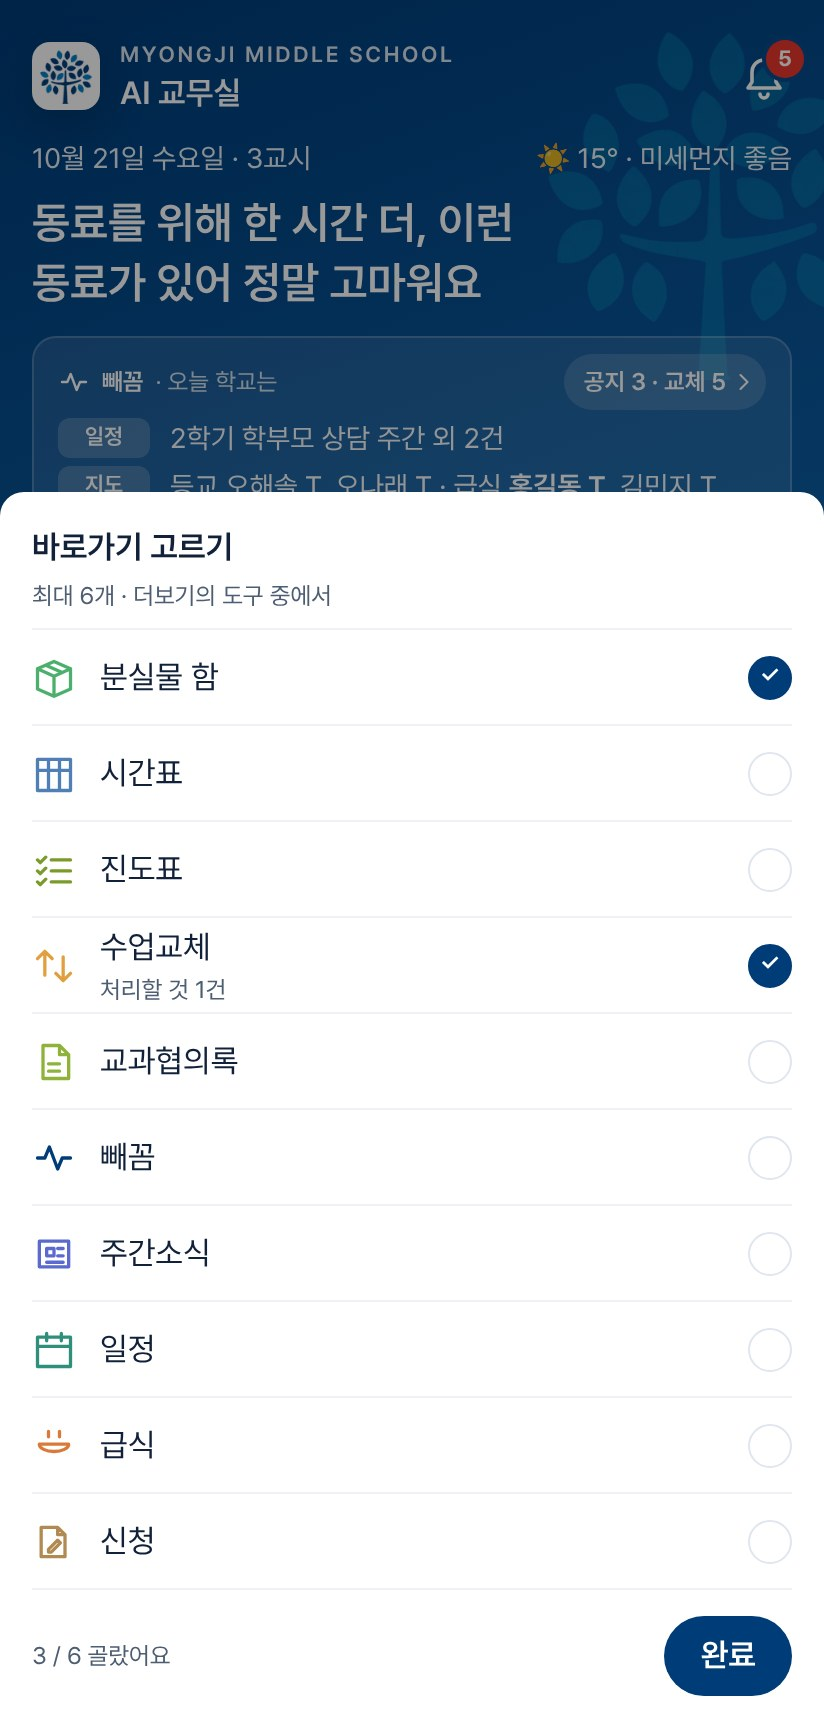
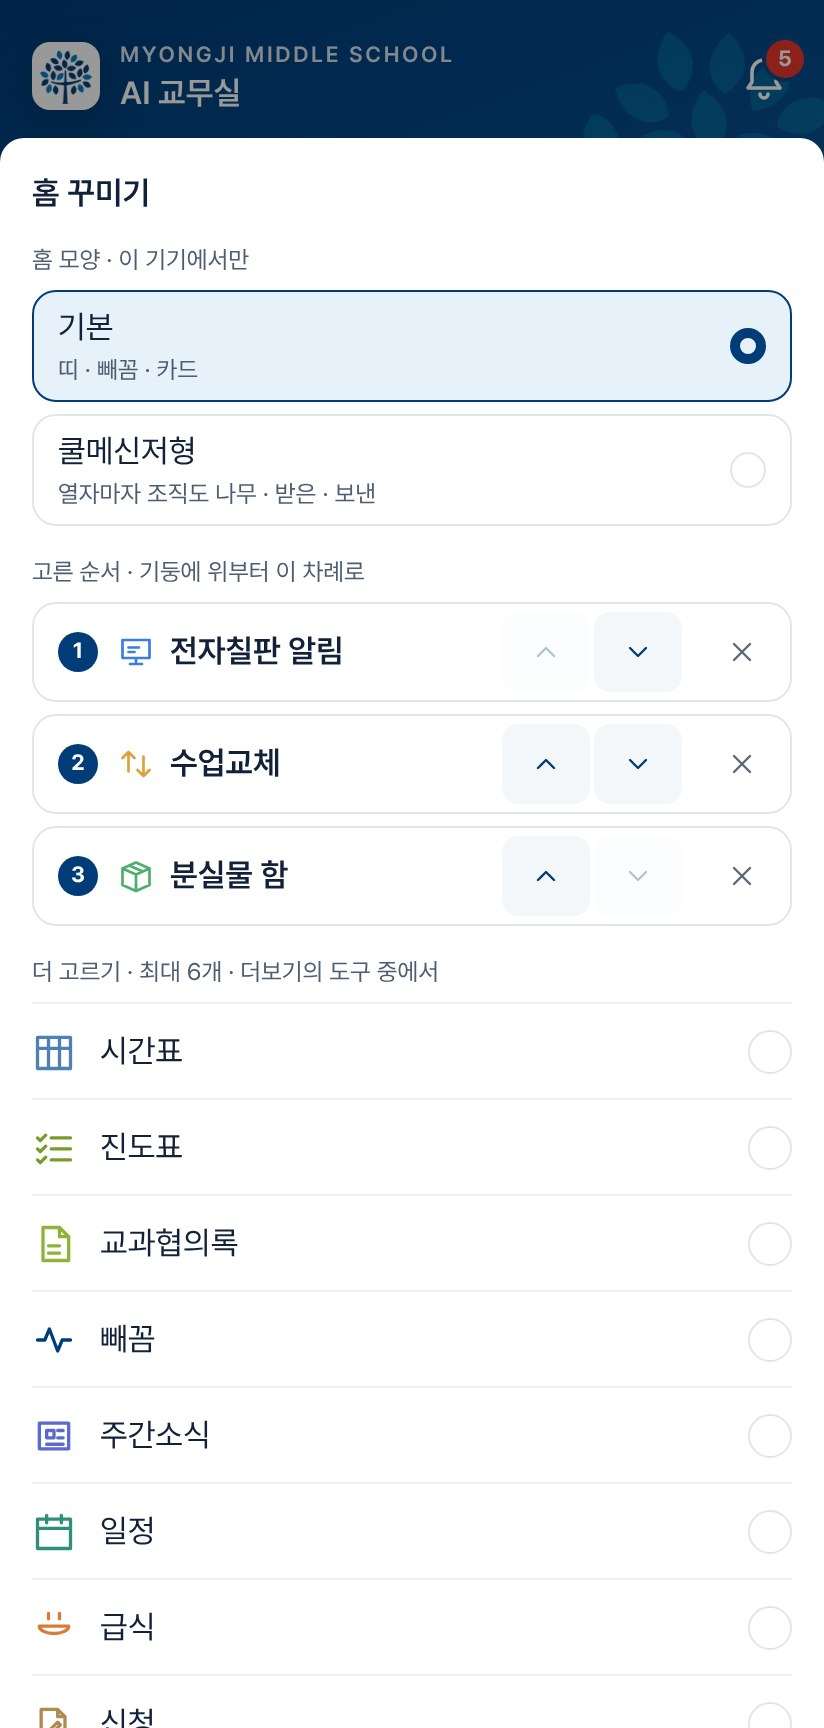
홈 꾸미기(10/31): 톱니 시트 새 그림, 순서 ▲▼·쿨메신저형 한 줄
Claude-Session: https://claude.ai/code/session_01PnRkvZMXyWQ3PDuECRmpn5

diff --git a/img/rects.js b/img/rects.js
@@ -1,3 +1,3 @@
 /* 화면마다 동그라미 칠 자리(412×864 기준, 찍을 때 잰 값) — R(화면, 키) */
-window.SHOT_RECTS = {"ai-deep": {"answer": [16, 202, 323, 464], "feedback": [20, 672, 41, 36], "question": [73, 68, 323, 124]}, "ai-form": {"answer": [16, 124, 323, 308], "feedback": [20, 438, 41, 36], "links": [267, 372, 37, 19], "question": [147, 68, 249, 46]}, "ai-home": {"chip_first": [16, 202, 380, 46], "chips": [16, 201, 380, 236], "clear": [333, 12, 71, 44], "greet": [16, 100, 380, 30], "head": [16, 16, 74, 36], "hello": [16, 134, 380, 39], "input": [72, 658, 268, 48], "mic": [348, 658, 48, 48], "notice": [16, 718, 380, 33], "plus": [16, 658, 48, 48], "tab_ai": [166, 792, 81, 44]}, "ai-lesson-2": {"body": [31, 48, 350, 482], "button": [31, 560, 111, 40]}, "ai-letter": {"body": [31, 620, 350, 274], "card": [16, 286, 380, 671], "head": [17, 287, 378, 41], "question": [73, 68, 323, 72]}, "ai-library": {"answer": [16, 124, 323, 438], "feedback": [20, 568, 41, 36], "links": [65, 450, 37, 19], "question": [133, 68, 263, 46]}, "ai-lost": {"button": [31, 586, 84, 40], "card": [16, 312, 380, 327], "photo": [31, 366, 96, 96], "question": [73, 68, 323, 124]}, "ai-nep": {"button": [31, 726, 84, 40], "card": [16, 286, 380, 493], "edit": [127, 738, 89, 16], "people": [31, 589, 350, 84], "question": [73, 68, 323, 72]}, "ai-number": {"button": [31, 449, 96, 40], "card": [16, 260, 380, 242], "question": [81, 68, 315, 46]}, "ai-plus": {"attach": [22, 523, 284, 60], "close": [16, 658, 48, 48], "deep": [22, 584, 284, 60], "menu": [16, 517, 296, 133]}, "ai-progress": {"button": [31, 504, 108, 40], "card": [16, 286, 380, 271], "question": [73, 68, 323, 72]}, "ai-repair": {"button": [31, 576, 96, 40], "card": [16, 260, 380, 369], "head": [17, 261, 378, 41], "question": [73, 68, 323, 72]}, "ai-sign": {"button": [31, 705, 175, 40], "card": [16, 286, 380, 472], "people": [31, 544, 350, 151], "question": [73, 68, 323, 72]}, "ai-swap": {"calendar": [31, 364, 75, 14], "card": [16, 312, 380, 703], "question": [73, 68, 323, 72]}, "alerts": {}, "board-alert-confirm": {"cancel": [16, 804, 136, 44], "go": [160, 804, 236, 44], "sheet": [0, 0, 412, 864], "text": [16, 720, 380, 72], "where": [16, 668, 380, 40]}, "board-pick": {"all": [16, 535, 380, 44], "done": [16, 798, 380, 50], "grid": [16, 591, 380, 94], "legend": [16, 697, 380, 32], "off": [170, 641, 71, 44], "tabs": [16, 481, 380, 42]}, "board-send": {"body": [37, 239, 338, 110], "kinds": [31, 134, 350, 50], "mine": [272, 455, 109, 40], "options": [37, 362, 338, 38], "submit": [31, 572, 350, 50], "what": [31, 204, 350, 21], "where": [31, 426, 350, 115]}, "board-voice-rec": {"status": [45, 290, 322, 92], "stop": [285, 342, 82, 40]}, "calendar": {"today": [196, 394, 20, 20]}, "forms": {"trip": [17, 110, 378, 56]}, "found": {"head": [16, 24, 380, 71]}, "home": {"bell": [360, 16, 44, 44], "changed": [276, 526, 45, 71], "gear": [356, 729, 52, 44], "hero": [16, 96, 380, 61], "hint": [16, 322, 380, 44], "nep": [16, 398, 320, 54], "now": [129, 526, 45, 71], "peek": [16, 168, 380, 96], "pg": [245, 465, 40, 44], "pill": [282, 177, 101, 28], "rail": [352, 382, 60, 404], "sc": [356, 386, 52, 62], "scAll": [356, 514, 52, 62], "tabAi": [166, 792, 81, 44], "tabMore": [327, 792, 81, 61], "tabNep": [85, 792, 81, 61], "tileLesson": [16, 276, 186, 38], "tileSched": [210, 276, 186, 38], "tiles": [16, 276, 380, 38], "tt": [289, 465, 40, 44]}, "home-3": {"cal": [289, 430, 40, 44], "gear": [356, 729, 52, 44], "meal": [31, 291, 24, 20], "rail": [352, 0, 60, 786], "upcoming": [31, 442, 76, 20], "weekly": [245, 430, 40, 44]}, "home-sheet": {"count": [16, 819, 69, 18], "done": [332, 808, 64, 40], "head": [16, 262, 380, 24], "pick": [16, 314, 380, 484], "sheet": [0, 0, 412, 864]}, "home-sports": {"card": [16, 16, 320, 472], "link": [16, 16, 320, 472]}, "library": {"chips": [72, 214, 52, 39], "pinned": [16, 282, 380, 95], "search": [52, 169, 331, 23], "write": [310, 720, 86, 48]}, "library-post": {"download": [31, 211, 350, 44]}, "lost-date": {"head": [31, 91, 53, 28], "head2": [31, 207, 51, 28], "scene": [16, 76, 380, 680]}, "lost-found": {"add": [126, 679, 161, 54], "box": [16, 76, 380, 680], "item": [184, 368, 81, 81], "note": [16, 756, 380, 43], "returned": [286, 16, 110, 44], "student": [251, 767, 50, 13]}, "lost-found-2": {"add": [126, 643, 161, 54], "note": [16, 720, 380, 43], "student": [251, 731, 50, 13]}, "lost-found-add": {"photo": [16, 154, 380, 212], "place": [16, 558, 380, 73], "submit": [149, 863, 247, 44]}, "lost-kind": {"head": [31, 91, 58, 28], "scene": [16, 76, 380, 680]}, "nep-board": {"meter": [16, 173, 380, 76], "pending": [16, 261, 380, 21], "remind": [16, 328, 380, 44]}, "nep-inbox": {"chip": [341, 457, 51, 21], "me": [0, 128, 412, 68], "recruit": [0, 264, 412, 68], "row": [0, 196, 412, 68], "tabs": [16, 76, 380, 48], "unread": [372, 230, 20, 20]}, "nep-org-picked": {"bar": [14, 692, 384, 61], "checks": [15, 165, 382, 225], "write": [283, 702, 105, 41]}, "nep-plus": {"ack": [16, 536, 380, 56], "files": [16, 472, 380, 56], "schedule": [16, 728, 380, 56], "sheet": [0, 0, 412, 864], "submit": [16, 664, 380, 56], "task": [16, 600, 380, 56], "urgent": [16, 792, 380, 56]}, "nep-room": {"bubble": [209, 643, 191, 63], "card": [12, 276, 341, 358], "done": [27, 576, 72, 44], "due": [27, 530, 311, 36], "head": [0, 0, 412, 61], "input": [64, 709, 260, 44], "plus": [12, 709, 44, 44], "send": [332, 709, 68, 44]}, "notifications-on": {"nurse": [333, 390, 48, 28], "test": [63, 177, 318, 44]}, "nurse": {"open": [31, 139, 350, 50]}, "pg-month": {"left": [33, 354, 346, 17], "nav": [16, 205, 380, 40], "row": [16, 396, 380, 118], "streak": [299, 270, 80, 21], "summary": [16, 257, 380, 127], "toggle": [16, 139, 380, 54]}, "pg-month-2": {"legend": [16, 614, 380, 40], "off": [77, 57, 24, 32], "row": [16, 267, 380, 118], "star": [53, 64, 16, 17], "today": [77, 91, 24, 32], "todo": [53, 342, 24, 32]}, "pg-month-pick": {"head": [31, 89, 121, 21], "slot": [17, 300, 378, 29]}, "pg-today": {"card": [16, 229, 380, 142], "date": [68, 139, 216, 44], "map": [206, 80, 187, 44], "save": [309, 703, 87, 44], "segment": [16, 77, 380, 50]}, "pg-week": {"hint": [16, 605, 380, 17], "list": [16, 139, 380, 54], "nav": [16, 205, 380, 40], "toggle": [16, 139, 380, 54]}, "record": {"privacy": [16, 42, 253, 16]}, "record-options": {"generate": [31, 383, 350, 50], "length": [31, 61, 350, 21], "model": [31, 301, 350, 48]}, "record-result": {"basis": [31, 532, 350, 90], "result": [31, 330, 350, 166]}, "sign-file": {"doc": [312, 103, 56, 21], "sign": [31, 181, 252, 48]}, "sign-meeting": {"hand": [295, 141, 71, 17], "roster": [17, 234, 378, 464], "sign": [31, 126, 252, 48]}, "signature": {"default": [267, 96, 112, 21], "hand": [16, 77, 380, 302], "stamp": [16, 391, 380, 302]}, "sports": {"bracket": [16, 77, 380, 262], "match": [29, 394, 354, 129], "rounds": [98, 352, 50, 32], "score": [116, 176, 17, 14]}, "sub-calc": {"calendar": [31, 466, 350, 21], "date": [31, 316, 169, 44], "go": [31, 501, 350, 44], "periods": [31, 374, 350, 113], "reason": [212, 316, 169, 44], "tabs": [16, 77, 380, 50], "teacher": [31, 229, 350, 44]}, "sub-dates": {"byHand": [278, 520, 71, 17], "dates": [43, 117, 255, 68], "request": [31, 508, 235, 40], "tools": [31, 460, 350, 36]}, "sub-inbox": {"pending": [16, 316, 380, 21], "proxy": [31, 651, 220, 40], "register": [16, 139, 380, 44], "rooms": [16, 243, 380, 65], "tab": [268, 80, 125, 44]}, "sub-result": {"calendar": [31, 120, 350, 42], "date": [43, 317, 279, 40], "firstStep": [31, 264, 350, 23], "plan1": [31, 207, 350, 49]}, "today": {"board": [31, 90, 52, 21], "days": [178, 271, 42, 23], "mynep": [31, 926, 42, 21]}, "today-2": {"changes": [17, 302, 378, 46], "events": [31, 72, 69, 21]}, "tt-class": {"picker": [16, 135, 380, 44], "tabs": [16, 77, 380, 50]}, "tt-free": {"name": [31, 395, 60, 40], "rooms": [16, 212, 380, 123], "teachers": [16, 347, 380, 343]}, "tt-my": {"away": [191, 516, 61, 87], "band": [191, 226, 61, 87], "changed": [191, 606, 61, 68], "pending": [322, 317, 61, 68], "picker": [16, 135, 380, 44], "tabs": [16, 77, 380, 50], "today": [191, 389, 61, 68]}, "tt-pop": {"band": [191, 226, 61, 87], "pop": [29, 317, 354, 115]}};
+window.SHOT_RECTS = {"ai-deep": {"answer": [16, 202, 323, 464], "feedback": [20, 672, 41, 36], "question": [73, 68, 323, 124]}, "ai-form": {"answer": [16, 124, 323, 308], "feedback": [20, 438, 41, 36], "links": [267, 372, 37, 19], "question": [147, 68, 249, 46]}, "ai-home": {"chip_first": [16, 202, 380, 46], "chips": [16, 201, 380, 236], "clear": [333, 12, 71, 44], "greet": [16, 100, 380, 30], "head": [16, 16, 74, 36], "hello": [16, 134, 380, 39], "input": [72, 658, 268, 48], "mic": [348, 658, 48, 48], "notice": [16, 718, 380, 33], "plus": [16, 658, 48, 48], "tab_ai": [166, 792, 81, 44]}, "ai-lesson-2": {"body": [31, 48, 350, 482], "button": [31, 560, 111, 40]}, "ai-letter": {"body": [31, 620, 350, 274], "card": [16, 286, 380, 671], "head": [17, 287, 378, 41], "question": [73, 68, 323, 72]}, "ai-library": {"answer": [16, 124, 323, 438], "feedback": [20, 568, 41, 36], "links": [65, 450, 37, 19], "question": [133, 68, 263, 46]}, "ai-lost": {"button": [31, 586, 84, 40], "card": [16, 312, 380, 327], "photo": [31, 366, 96, 96], "question": [73, 68, 323, 124]}, "ai-nep": {"button": [31, 726, 84, 40], "card": [16, 286, 380, 493], "edit": [127, 738, 89, 16], "people": [31, 589, 350, 84], "question": [73, 68, 323, 72]}, "ai-number": {"button": [31, 449, 96, 40], "card": [16, 260, 380, 242], "question": [81, 68, 315, 46]}, "ai-plus": {"attach": [22, 523, 284, 60], "close": [16, 658, 48, 48], "deep": [22, 584, 284, 60], "menu": [16, 517, 296, 133]}, "ai-progress": {"button": [31, 504, 108, 40], "card": [16, 286, 380, 271], "question": [73, 68, 323, 72]}, "ai-repair": {"button": [31, 576, 96, 40], "card": [16, 260, 380, 369], "head": [17, 261, 378, 41], "question": [73, 68, 323, 72]}, "ai-sign": {"button": [31, 705, 175, 40], "card": [16, 286, 380, 472], "people": [31, 544, 350, 151], "question": [73, 68, 323, 72]}, "ai-swap": {"calendar": [31, 364, 75, 14], "card": [16, 312, 380, 703], "question": [73, 68, 323, 72]}, "alerts": {}, "board-alert-confirm": {"cancel": [16, 804, 136, 44], "go": [160, 804, 236, 44], "sheet": [0, 0, 412, 864], "text": [16, 720, 380, 72], "where": [16, 668, 380, 40]}, "board-pick": {"all": [16, 535, 380, 44], "done": [16, 798, 380, 50], "grid": [16, 591, 380, 94], "legend": [16, 697, 380, 32], "off": [170, 641, 71, 44], "tabs": [16, 481, 380, 42]}, "board-send": {"body": [37, 239, 338, 110], "kinds": [31, 134, 350, 50], "mine": [272, 455, 109, 40], "options": [37, 362, 338, 38], "submit": [31, 572, 350, 50], "what": [31, 204, 350, 21], "where": [31, 426, 350, 115]}, "board-voice-rec": {"status": [45, 290, 322, 92], "stop": [285, 342, 82, 40]}, "calendar": {"today": [196, 394, 20, 20]}, "forms": {"trip": [17, 110, 378, 56]}, "found": {"head": [16, 24, 380, 71]}, "home": {"bell": [360, 16, 44, 44], "changed": [276, 526, 45, 71], "gear": [356, 729, 52, 44], "hero": [16, 96, 380, 61], "hint": [16, 322, 380, 44], "nep": [16, 398, 320, 54], "now": [129, 526, 45, 71], "peek": [16, 168, 380, 96], "pg": [245, 465, 40, 44], "pill": [282, 177, 101, 28], "rail": [352, 382, 60, 404], "sc": [356, 386, 52, 62], "scAll": [356, 514, 52, 62], "tabAi": [166, 792, 81, 44], "tabMore": [327, 792, 81, 61], "tabNep": [85, 792, 81, 61], "tileLesson": [16, 276, 186, 38], "tileSched": [210, 276, 186, 38], "tiles": [16, 276, 380, 38], "tt": [289, 465, 40, 44]}, "home-3": {"cal": [289, 430, 40, 44], "gear": [356, 729, 52, 44], "meal": [31, 291, 24, 20], "rail": [352, 0, 60, 786], "upcoming": [31, 442, 76, 20], "weekly": [245, 430, 40, 44]}, "home-sheet": {"count": [16, 1006, 69, 18], "done": [332, 995, 64, 40], "head": [16, 85, 380, 24], "look": [16, 145, 380, 118], "order": [16, 301, 380, 162], "pick": [16, 501, 380, 484], "sheet": [0, 0, 412, 864]}, "home-sports": {"card": [16, 16, 320, 472], "link": [16, 16, 320, 472]}, "library": {"chips": [72, 214, 52, 39], "pinned": [16, 282, 380, 95], "search": [52, 169, 331, 23], "write": [310, 720, 86, 48]}, "library-post": {"download": [31, 211, 350, 44]}, "lost-date": {"head": [31, 91, 53, 28], "head2": [31, 207, 51, 28], "scene": [16, 76, 380, 680]}, "lost-found": {"add": [126, 679, 161, 54], "box": [16, 76, 380, 680], "item": [184, 368, 81, 81], "note": [16, 756, 380, 43], "returned": [286, 16, 110, 44], "student": [251, 767, 50, 13]}, "lost-found-2": {"add": [126, 643, 161, 54], "note": [16, 720, 380, 43], "student": [251, 731, 50, 13]}, "lost-found-add": {"photo": [16, 154, 380, 212], "place": [16, 558, 380, 73], "submit": [149, 863, 247, 44]}, "lost-kind": {"head": [31, 91, 58, 28], "scene": [16, 76, 380, 680]}, "nep-board": {"meter": [16, 173, 380, 76], "pending": [16, 261, 380, 21], "remind": [16, 328, 380, 44]}, "nep-inbox": {"chip": [341, 457, 51, 21], "me": [0, 128, 412, 68], "recruit": [0, 264, 412, 68], "row": [0, 196, 412, 68], "tabs": [16, 76, 380, 48], "unread": [372, 230, 20, 20]}, "nep-org-picked": {"bar": [14, 692, 384, 61], "checks": [15, 165, 382, 225], "write": [283, 702, 105, 41]}, "nep-plus": {"ack": [16, 536, 380, 56], "files": [16, 472, 380, 56], "schedule": [16, 728, 380, 56], "sheet": [0, 0, 412, 864], "submit": [16, 664, 380, 56], "task": [16, 600, 380, 56], "urgent": [16, 792, 380, 56]}, "nep-room": {"bubble": [209, 643, 191, 63], "card": [12, 276, 341, 358], "done": [27, 576, 72, 44], "due": [27, 530, 311, 36], "head": [0, 0, 412, 61], "input": [64, 709, 260, 44], "plus": [12, 709, 44, 44], "send": [332, 709, 68, 44]}, "notifications-on": {"nurse": [333, 390, 48, 28], "test": [63, 177, 318, 44]}, "nurse": {"open": [31, 139, 350, 50]}, "pg-month": {"left": [33, 354, 346, 17], "nav": [16, 205, 380, 40], "row": [16, 396, 380, 118], "streak": [299, 270, 80, 21], "summary": [16, 257, 380, 127], "toggle": [16, 139, 380, 54]}, "pg-month-2": {"legend": [16, 614, 380, 40], "off": [77, 57, 24, 32], "row": [16, 267, 380, 118], "star": [53, 64, 16, 17], "today": [77, 91, 24, 32], "todo": [53, 342, 24, 32]}, "pg-month-pick": {"head": [31, 89, 121, 21], "slot": [17, 300, 378, 29]}, "pg-today": {"card": [16, 229, 380, 142], "date": [68, 139, 216, 44], "map": [206, 80, 187, 44], "save": [309, 703, 87, 44], "segment": [16, 77, 380, 50]}, "pg-week": {"hint": [16, 605, 380, 17], "list": [16, 139, 380, 54], "nav": [16, 205, 380, 40], "toggle": [16, 139, 380, 54]}, "record": {"privacy": [16, 42, 253, 16]}, "record-options": {"generate": [31, 383, 350, 50], "length": [31, 61, 350, 21], "model": [31, 301, 350, 48]}, "record-result": {"basis": [31, 532, 350, 90], "result": [31, 330, 350, 166]}, "sign-file": {"doc": [312, 103, 56, 21], "sign": [31, 181, 252, 48]}, "sign-meeting": {"hand": [295, 141, 71, 17], "roster": [17, 234, 378, 464], "sign": [31, 126, 252, 48]}, "signature": {"default": [267, 96, 112, 21], "hand": [16, 77, 380, 302], "stamp": [16, 391, 380, 302]}, "sports": {"bracket": [16, 77, 380, 262], "match": [29, 394, 354, 129], "rounds": [98, 352, 50, 32], "score": [116, 176, 17, 14]}, "sub-calc": {"calendar": [31, 466, 350, 21], "date": [31, 316, 169, 44], "go": [31, 501, 350, 44], "periods": [31, 374, 350, 113], "reason": [212, 316, 169, 44], "tabs": [16, 77, 380, 50], "teacher": [31, 229, 350, 44]}, "sub-dates": {"byHand": [278, 520, 71, 17], "dates": [43, 117, 255, 68], "request": [31, 508, 235, 40], "tools": [31, 460, 350, 36]}, "sub-inbox": {"pending": [16, 316, 380, 21], "proxy": [31, 651, 220, 40], "register": [16, 139, 380, 44], "rooms": [16, 243, 380, 65], "tab": [268, 80, 125, 44]}, "sub-result": {"calendar": [31, 120, 350, 42], "date": [43, 317, 279, 40], "firstStep": [31, 264, 350, 23], "plan1": [31, 207, 350, 49]}, "today": {"board": [31, 90, 52, 21], "days": [178, 271, 42, 23], "mynep": [31, 926, 42, 21]}, "today-2": {"changes": [17, 302, 378, 46], "events": [31, 72, 69, 21]}, "tt-class": {"picker": [16, 135, 380, 44], "tabs": [16, 77, 380, 50]}, "tt-free": {"name": [31, 395, 60, 40], "rooms": [16, 212, 380, 123], "teachers": [16, 347, 380, 343]}, "tt-my": {"away": [191, 516, 61, 87], "band": [191, 226, 61, 87], "changed": [191, 606, 61, 68], "pending": [322, 317, 61, 68], "picker": [16, 135, 380, 44], "tabs": [16, 77, 380, 50], "today": [191, 389, 61, 68]}, "tt-pop": {"band": [191, 226, 61, 87], "pop": [29, 317, 354, 115]}};
 window.R = function (s, k) { var a = (window.SHOT_RECTS[s] || {})[k]; if (!a) { if (window.console) console.warn('rect 없음', s, k); return null; } return a; };

diff --git a/intro-scenes.js b/intro-scenes.js
@@ -597,12 +597,12 @@
       { t: '큰 글씨는 <b>선생님마다 다른 한마디</b> — 교체로 수업을 맡아 준 날엔 “고마워요”', s: 0, r: R("home", "hero"), newf: true },
       { t: '<span class="q">「빼꼼 · 오늘 학교는」</span> 판: 오늘 일정·지도 당번과 공지·교체 수 — 누르면 빼꼼', s: 0, r: R("home", "peek"), newf: true, z: 1.6 },
       { t: '두 칸 <span class="q">내 수업 · 내 일정</span>(누르면 시간표·달력), 그 아래 <b>처리할 넵</b>', s: 0, r: R("home", "tiles"), newf: true, z: 1.9 },
-      { t: '오른쪽 남색 기둥 = <b>내 바로가기</b>, <span class="k">톱니</span>로 최대 6개', s: 2, r: R("home-sheet", "pick"), newf: true },
+      { t: '오른쪽 남색 기둥 = <b>내 바로가기</b>, <span class="k">톱니</span> 「홈 꾸미기」로 최대 6개·순서 ▲▼', s: 2, r: R("home-sheet", "order"), newf: true },
       { t: '오늘 시간표: 지금 교시 <span class="q">「지금」</span>, 교체로 들어온 수업 <span class="q">「바뀜」</span>', s: 0, r: R("home", "now"), z: 1.9 },
       { t: '급식과 <span class="q">「다가오는 일정」</span>(오늘부터 7일)', s: 1, r: R("home-3", "upcoming") }
     ],
     screens: ["home", "home-3", "home-sheet"],
-    notes: "앱을 열면 보이는 홈입니다. 위쪽 큰 글씨는 <b>선생님마다 다른 한마디</b>입니다. 오늘 동료 수업을 교체로 맡아 준 선생님에게는 “고마워요”, 급식지도 당번에게는 “점심 챙기세요”처럼, 그 선생님의 오늘에 맞춰 AI와 규칙이 함께 고릅니다(퇴근했다고 단정하거나 다그치는 말은 쓰지 않습니다). 그 아래 <b>빼꼼 판</b>에 오늘 일정과 등교·급식지도 당번, 공지·바뀐 수업 수가 모이고(누르면 빼꼼), 내 수업·내 일정 두 칸, 처리할 넵, 오늘 시간표, 급식, 다가오는 일정 순서입니다. 카드 오른쪽의 <b>남색 기둥</b>은 내 바로가기입니다 — 처음엔 전자칠판 알림·수업교체·분실물 함이 있고, 맨 아래 톱니로 자주 쓰는 도구를 최대 6개까지 골라 둡니다(그 기기에만 저장, 화면을 내려도 제자리). <b>저녁 7시부터는</b> 홈 전체가 내일 것으로 바뀌어 퇴근길에 내일을 봅니다."
+    notes: "앱을 열면 보이는 홈입니다. 위쪽 큰 글씨는 <b>선생님마다 다른 한마디</b>입니다. 오늘 동료 수업을 교체로 맡아 준 선생님에게는 “고마워요”, 급식지도 당번에게는 “점심 챙기세요”처럼, 그 선생님의 오늘에 맞춰 AI와 규칙이 함께 고릅니다(퇴근했다고 단정하거나 다그치는 말은 쓰지 않습니다). 그 아래 <b>빼꼼 판</b>에 오늘 일정과 등교·급식지도 당번, 공지·바뀐 수업 수가 모이고(누르면 빼꼼), 내 수업·내 일정 두 칸, 처리할 넵, 오늘 시간표, 급식, 다가오는 일정 순서입니다. 카드 오른쪽의 <b>남색 기둥</b>은 내 바로가기입니다 — 처음엔 전자칠판 알림·수업교체·분실물 함이 있고, 맨 아래 톱니로 자주 쓰는 도구를 최대 6개까지 골라 둡니다(그 기기에만 저장, 화면을 내려도 제자리). 톱니 시트 「홈 꾸미기」에서 순서를 바꾸고, 홈 모양을 쿨메신저처럼 열자마자 조직도가 뜨는 「쿨메신저형」으로 고를 수도 있습니다. <b>저녁 7시부터는</b> 홈 전체가 내일 것으로 바뀌어 퇴근길에 내일을 봅니다."
   });
 
   show({
